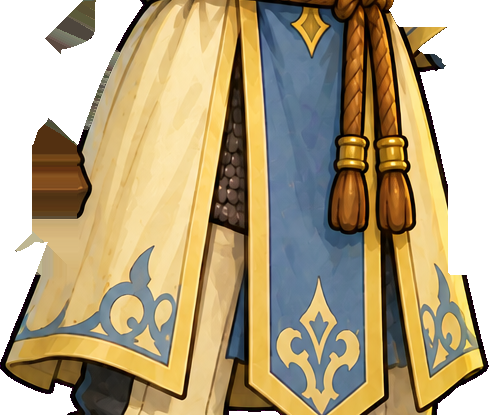
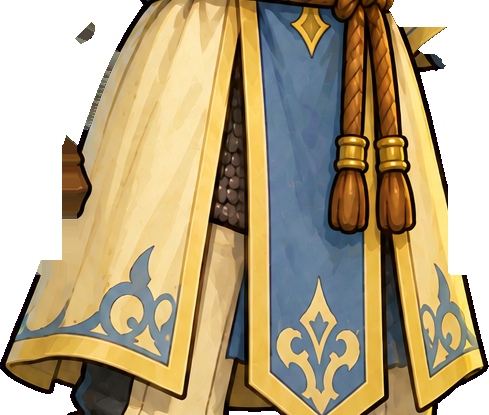
Walk rig: drop false skin masks on armour, tighter arm-gap fills, fade hip underlay

Changed region(s): [[0.0307, 0.2892, 0.1534, 0.6361], [0.092, 0.0, 0.2147, 0.1157]]

diff --git a/tools/build_preview.py b/tools/build_preview.py
@@ -227,7 +227,7 @@ def skull(a):
     return [top, int((xs.min() + xs.max()) / 2)]
 
 
-def save_part(a, name, lime=False, hue_lo=None, reach=4, eyes=False):
+def save_part(a, name, lime=False, hue_lo=None, reach=4, eyes=False, min_skin=50):
     """Crop to content and save; for lime parts also save a skin mask + its mean Lab."""
     ys, xs = np.where(a[..., 3] > 0)
     x0, y0, x1, y1 = xs.min(), ys.min(), xs.max() + 1, ys.max() + 1
@@ -240,7 +240,7 @@ def save_part(a, name, lime=False, hue_lo=None, reach=4, eyes=False):
             zone = np.zeros(crop.shape[:2], bool)
             zone[120:260, crop.shape[1] // 2:] = True
         m = skin_mask(crop, hue_lo=hue_lo, reach=reach, eye_zone=zone) & (crop[..., 3] > 0)
-        if m.sum() > 50:
+        if m.sum() > min_skin:
             Image.fromarray((m * 255).astype(np.uint8)).save(ASSETS / f"{name}_skin.png", optimize=True)
             part["skin_mask"] = f"assets/{name}_skin.png"
             part["key_lab"] = [round(float(v), 2) for v in rgb2lab(crop[..., :3])[m].mean(0)]
@@ -370,7 +370,7 @@ def main():
         if cfg and tpl in ANIM["templates"]:
             pieces, anchors = anim_rig.split(front, ANIM["templates"][tpl], cfg["hem"], cfg["belt"])
             entry["anim"] = {"profile": cfg["profile"], "anchors": anchors,
-                             "pieces": {k: save_part(v, f"anim_{bid}_{k}", True)
+                             "pieces": {k: save_part(v, f"anim_{bid}_{k}", True, min_skin=1500)  # stray greenish armour px are not skin
                                         for k, v in pieces.items() if (v[..., 3] > 0).any()}}
         if tpl in RIG:
             entry["rig"] = {k: save_part(v, f"body_{bid}_{k}", True)

diff --git a/tools/anim_rig.py b/tools/anim_rig.py
@@ -85,6 +85,12 @@ def split(a, t, hem, belt):
         p = a.copy()
         p[~m, 3] = 0
         pieces[name] = p
+    # static hip underlay: fade its bottom edge so it never shows a hard line under swinging legs
+    hp = pieces["hips"]
+    if (hp[..., 3] > 0).any():
+        bottom = np.where((hp[..., 3] > 0).any(1))[0].max()
+        fade = np.clip((bottom - yy) / 60.0, 0, 1)
+        hp[..., 3] = (hp[..., 3] * fade).astype(np.uint8)
 
     # torso with the arm holes filled from the nearest torso pixels
     tor = a.copy()
@@ -92,7 +98,7 @@ def split(a, t, hem, belt):
     fill_f = np.zeros_like(a)
     for side, arm in (("n", arm_n), ("f", arm_f)):
         dst = tor if side == "n" else fill_f   # far fill goes BEHIND the far arm, never over it
-        hole = arm & ndimage.binary_dilation(torso, iterations=45)
+        hole = arm & ndimage.binary_dilation(torso, iterations=15)  # only right next to the body
         hole[: t["arm_top"]] = False
         if hole.any():
             _, _, val = _hsv(a)
